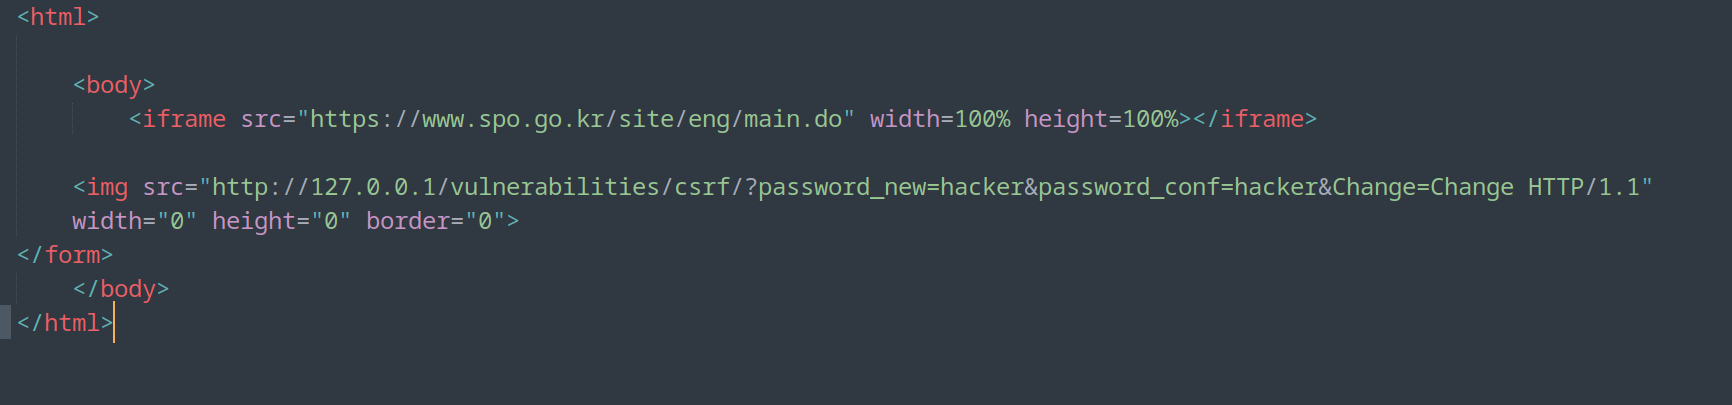
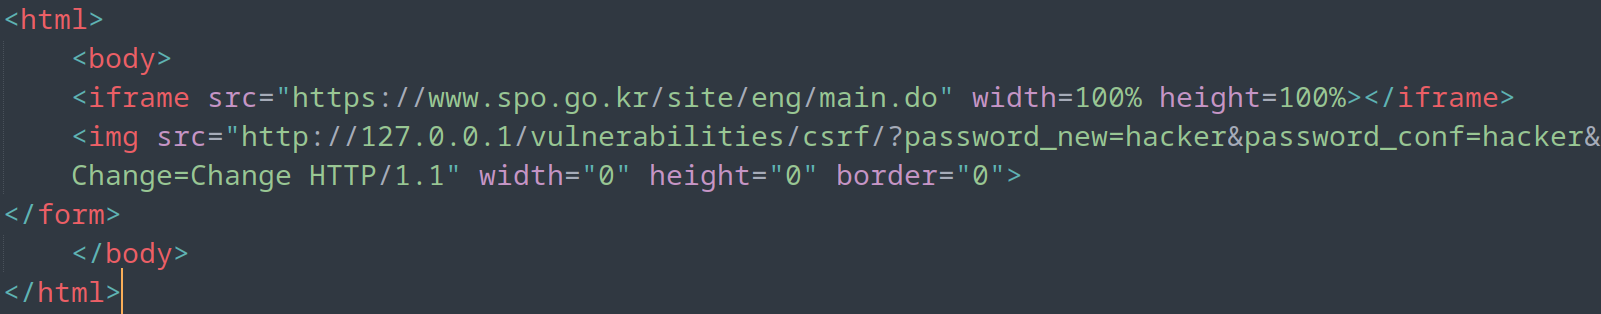
update

diff --git a/_posts/2023-06-04-CSRF-Report.md b/_posts/2023-06-04-CSRF-Report.md
@@ -40,10 +40,14 @@ The base CVSS was calculated upon the following metrics.
 For proof of concept (POC), the tester has simulated a phishing attack to conduct a CSRF attack. In the email, the tester has impersonated a prosecutor to entice the victim to click on the link.  Upon clicking on the link, the authenticated DVWA victim user is redirected to a malicious website that looks like a real prosecution service hompage. Here the victim's password is changed unintentionally without notice. After vising the site, the victim user `admin` cannot login with the same password anymore because it has been unintentionally changed. 
 
 #### Hosting a Malicious Website
-Firstly, the tester crafted an HTML that could conduct the CSRF attack. The base HTML was mainly made through the use of an iframe to embed a real website, in this case, the Korean Prosecution Service webpage. Moreover, the tester used the img source HTML tag to perform the malicious action of changing the password. Finally, the tester hosted a Python server to host this website.
+Firstly, the tester crafted an HTML that could conduct the CSRF attack. The base HTML was mainly made through the use of an iframe to embed a real website, in this case, the Korean Prosecution Service webpage. Moreover, the tester used the `<img src="">` HTML tag to perform the malicious action of changing the password.![](/assets/CSRF/code.png)
+Finally, the tester hosted a Python server to host the malicious website.
+```{bash}
+python3 -m http.server 145 
+```
 ![](/assets/CSRF/fake.png)
-The followiung is the code snipet.
-![](/assets/CSRF/code.png)
+
+
 
 The tester also crafted a simple phising email that impersonated a prosecutor with the help of ChatGPT. The tester made sure that the email consisted of a sense of urgency, time pressure, threats of legal action and a sense of authority in the email. In crafting the email, the tester first modified the sender's name to Prosecution Service. This could be done by logging into gmail, navigating to `Accounts and Imports` and changing the `Send Mail as`. Next upon crafting the email, the tester utilized the gmail link function to hide the orginal hosted webpage to a simplge clickable `Link`.
 ![](/assets/CSRF/phish.png) 
@@ -74,10 +78,10 @@ In the  `Security-High-Level` module there are CSRF token measures and Cross ori
 
 
 
-### Mitigating CSRF Attacks{#section-4}
-What we suggest.
-0. Zero Trust: Educate Employers about the dangers of clicking unknown links in emails. Check if the email is sent from a public email domain like `gmail.com`. Check if the domain name is misspelt. Utilize `virus total` a free url checking website to check if the url has been reported as malicious.
-1. Use CSRF tokens.   
+## Mitigating CSRF Attacks {#section-4}
+What we suggest.  
+Zero Trust: Educate Employers about the dangers of clicking unknown links in emails. Check if the email is sent from a public email domain like `gmail.com`. Check if the domain name is misspelt. Utilize `virus total` a free url checking website to check if the url has been reported as malicious.
+Use CSRF tokens.     
 A CSRF token serves as a distinctive, confidential, and unpredictable code generated by the server-side application and exchanged with the client. To carry out a sensitive task, like submitting a form, the client must include the accurate CSRF token in the request. This greatly hinders an attacker from creating a legitimate request on behalf of the target.
 CSRF tokens in PHP can be written as follow.  `$_SESSION[‘token’] = bin2hex(random_bytes(24));`. Next we suggest transmit the token to the client within a hidden HTML form field, using the `POST` method. 
 
@@ -88,10 +92,11 @@ CSRF tokens in PHP can be written as follow.  `$_SESSION[‘token’] = bin2hex(
 </form>
 ```
 
-2. Ask password again when conducting important tasks. This prevents any CSRF attack to be successful because the the attacker would not know the password. This is seen in the  `Security-Impossible-Level` module.
+Ask password again when conducting important tasks.   
+This prevents any CSRF attack to be successful because the the attacker would not know the password. This is seen in the  `Security-Impossible-Level` module.  
 ![ ](/assets/CSRF/impossible.png)
 
-3. Same Site Cookie.    
+Same Site Cookie.      
 SameSite is a security feature implemented in web browsers, which regulates the inclusion of a website's cookies in requests that originate from other websites. Since authenticated session cookies are typically required for sensitive actions, enforcing proper SameSite restrictions can hinder attackers from initiating such actions across different sites. This policy has already been adopted by famous       
 
 
